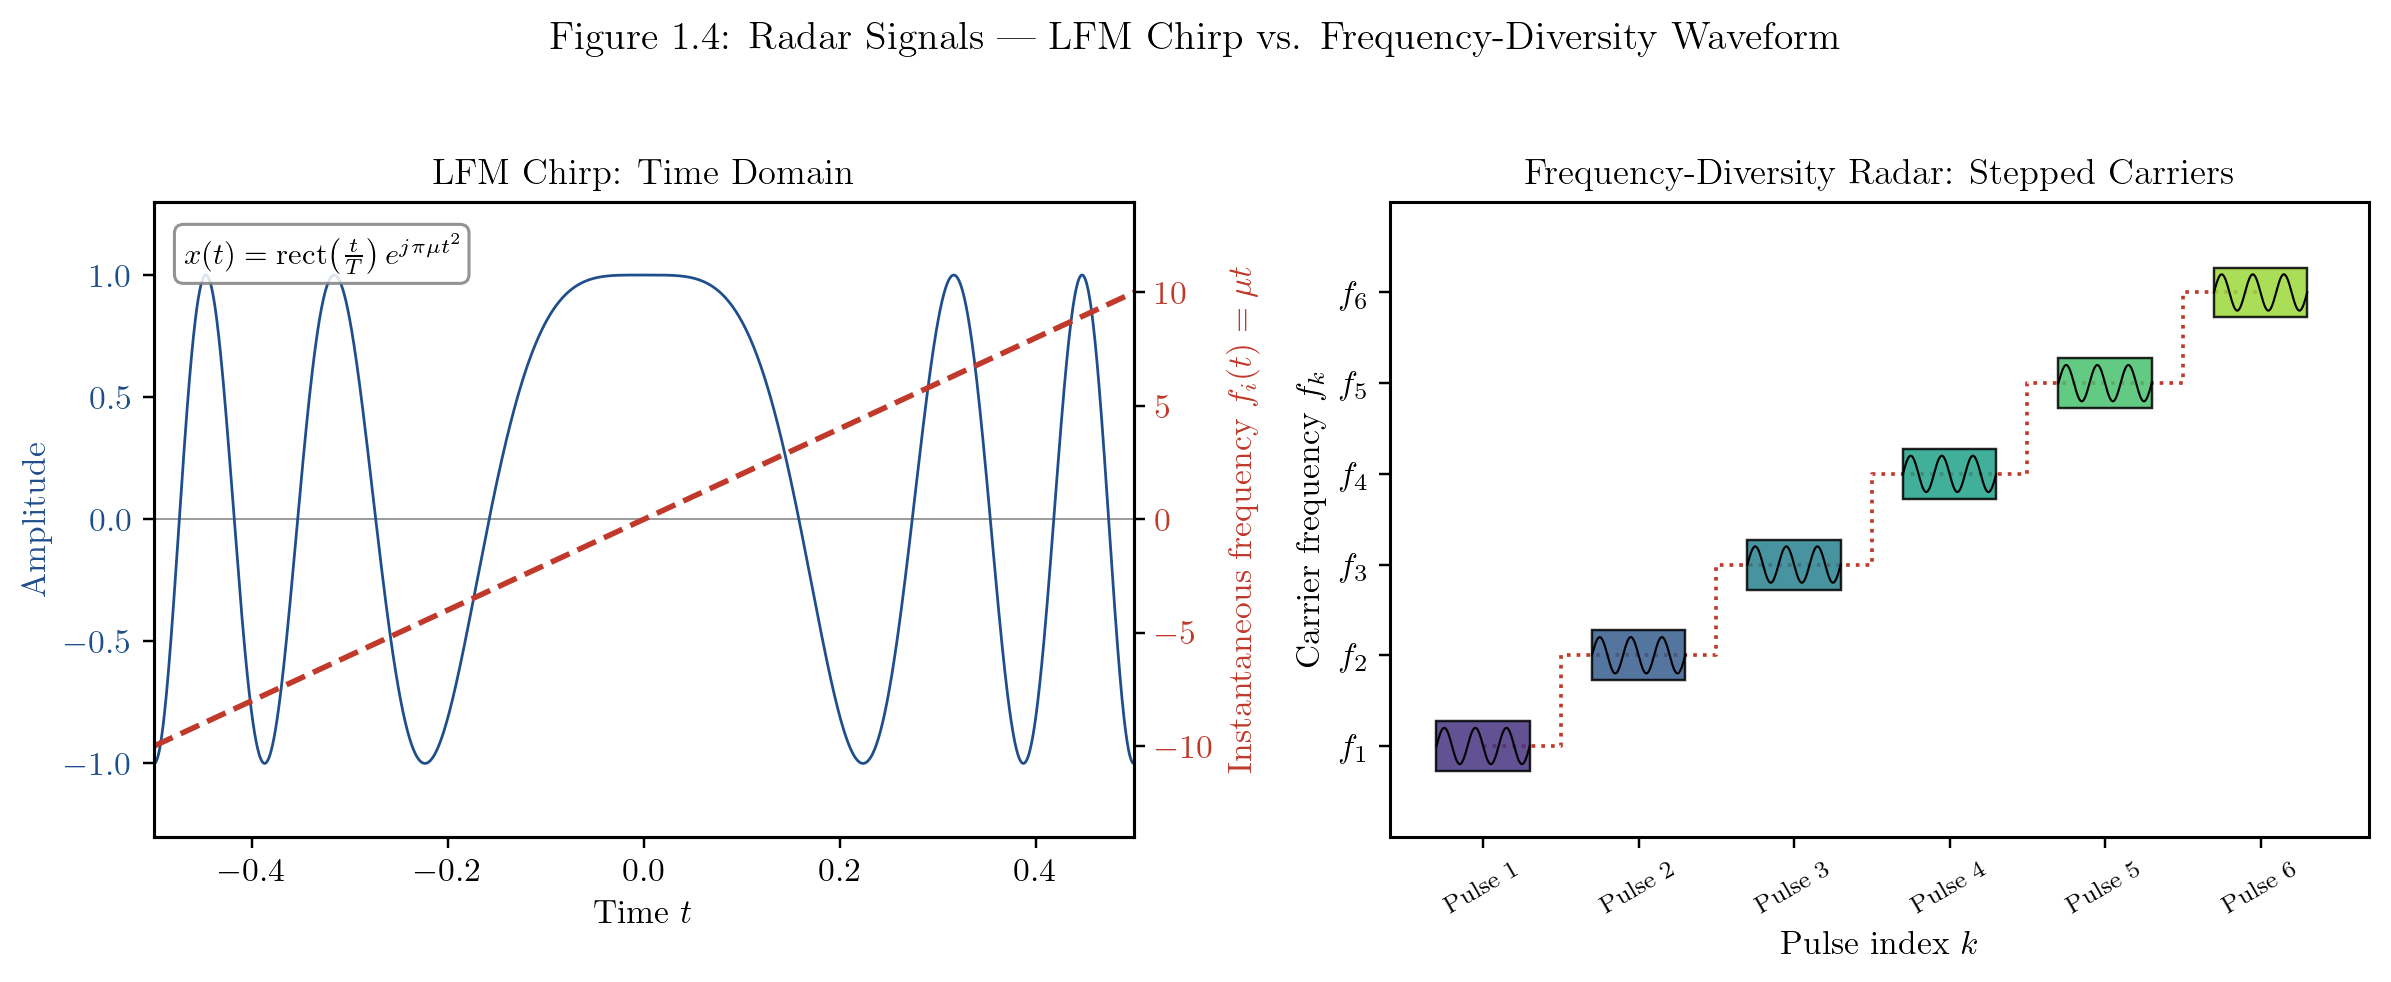
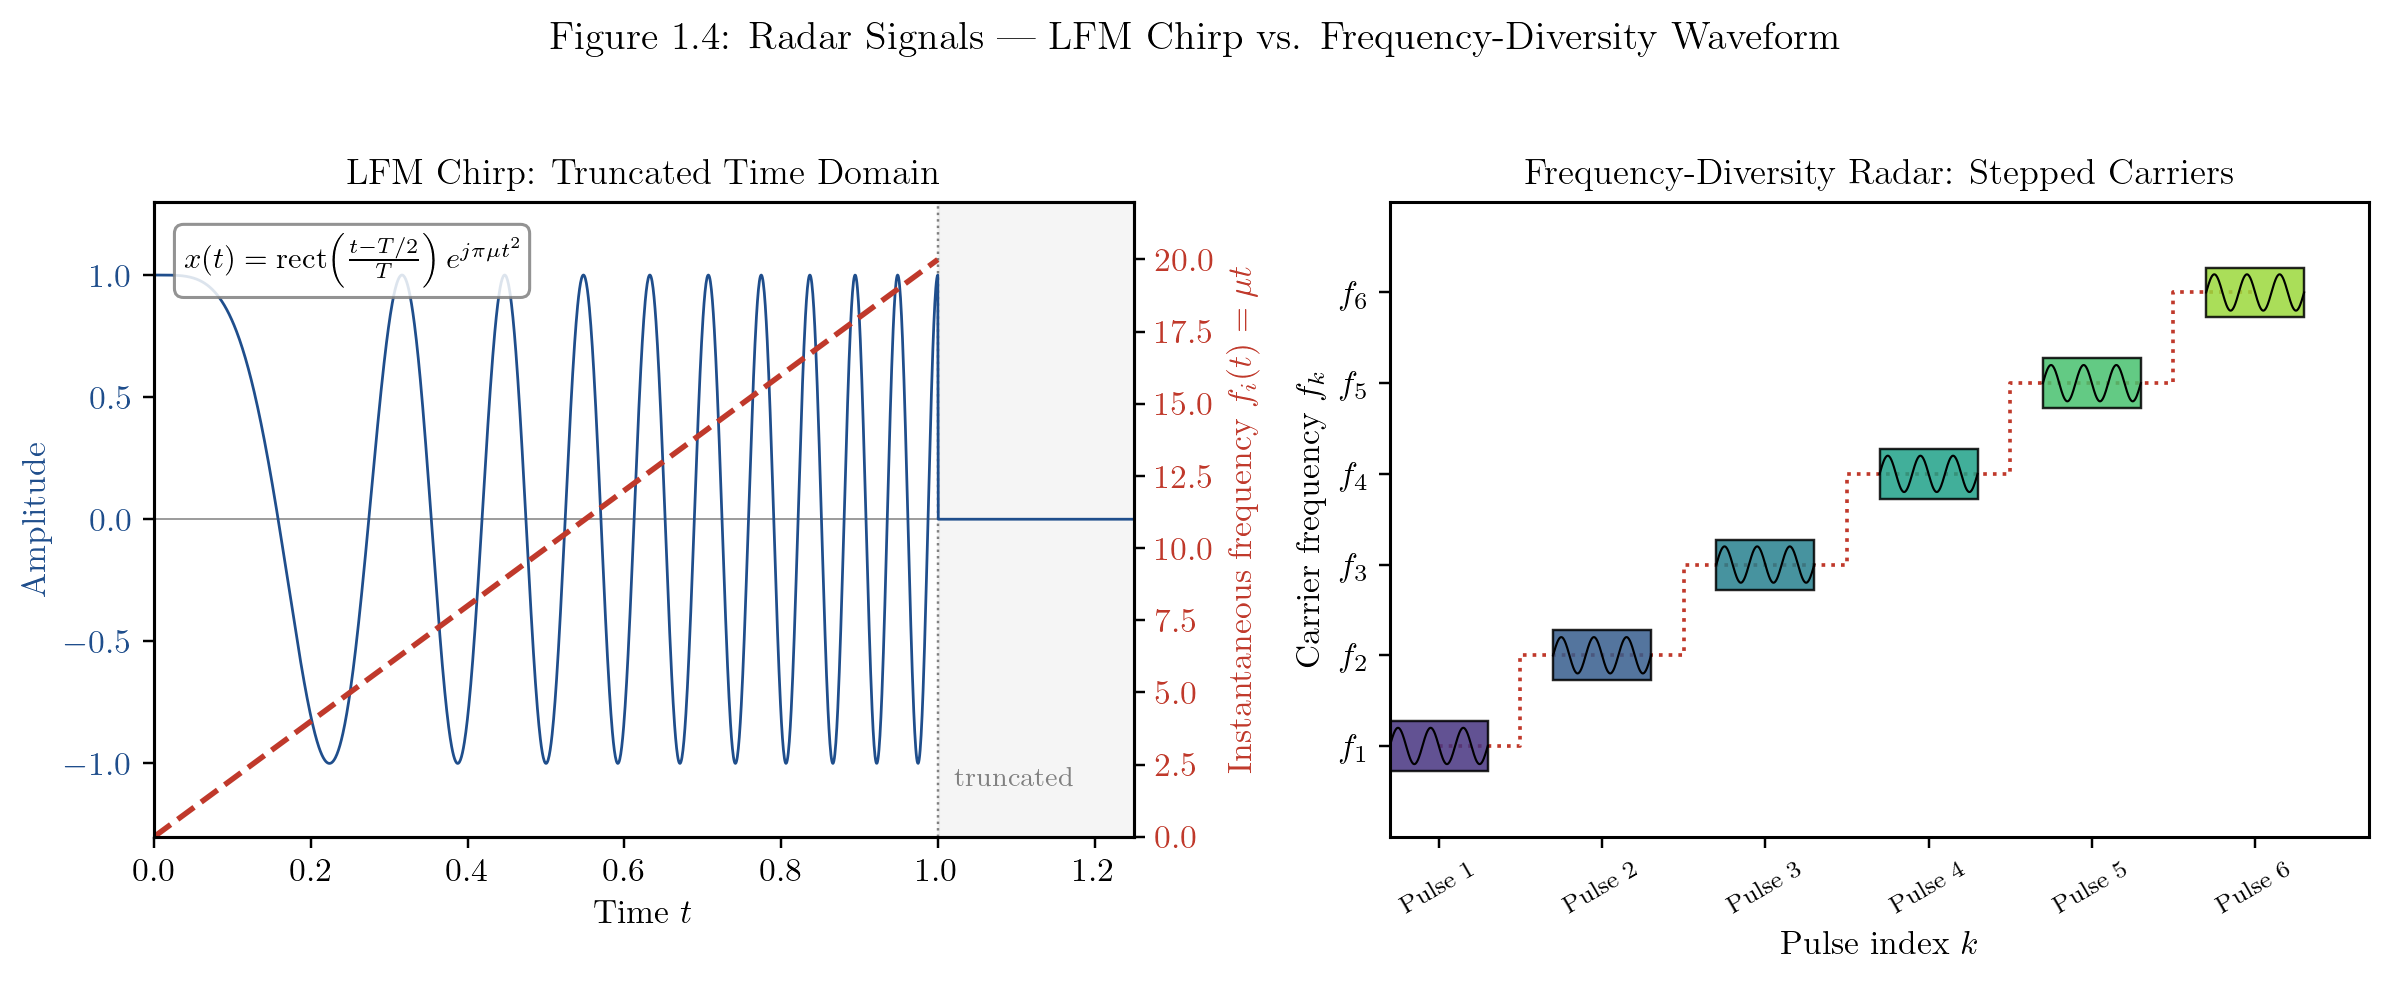
update

diff --git a/CourseADSP2026/Python/fig 1_4.py b/CourseADSP2026/Python/fig 1_4.py
@@ -29,31 +29,41 @@ T = 1.0                 # pulse duration
 B = 20.0                # swept bandwidth (Hz)
 mu = B / T               # chirp rate
 fs = 2000
-t = np.linspace(-T / 2, T / 2, fs)
+t = np.linspace(0, 1.25 * T, fs)
+pulse_mask = t <= T
 
-chirp = np.cos(np.pi * mu * t ** 2)          # real part of the LFM signal
-f_inst = mu * t                              # instantaneous frequency, linear in t
+chirp_untruncated = np.cos(np.pi * mu * t ** 2)
+chirp = np.where(pulse_mask, chirp_untruncated, 0.0)  # rectangularly truncated waveform
+f_inst = np.where(pulse_mask, mu * t, np.nan)         # only defined inside the pulse
 
 ax1.plot(t, chirp, color="#1f4e8c", linewidth=0.9)
 ax1.axhline(0, color="gray", linewidth=0.5, zorder=0)
-ax1.set_xlim(-T / 2, T / 2)
+ax1.axvline(T, color="gray", linewidth=0.8, linestyle=":", zorder=0)
+ax1.axvspan(T, t[-1], color="gray", alpha=0.08, zorder=-1)
+ax1.set_xlim(0, t[-1])
 ax1.set_ylim(-1.3, 1.3)
 ax1.set_xlabel("Time $t$")
 ax1.set_ylabel("Amplitude", color="#1f4e8c")
 ax1.tick_params(axis="y", labelcolor="#1f4e8c")
-ax1.set_title("LFM Chirp: Time Domain", fontsize=12)
+ax1.set_title("LFM Chirp: Truncated Time Domain", fontsize=12)
 
 ax1b = ax1.twinx()
 ax1b.plot(t, f_inst, color="#c0392b", linewidth=1.8, linestyle="--")
 ax1b.set_ylabel(r"Instantaneous frequency $f_i(t)=\mu t$", color="#c0392b")
 ax1b.tick_params(axis="y", labelcolor="#c0392b")
-ax1b.set_ylim(-B * 0.7, B * 0.7)
+ax1b.set_ylim(0, B * 1.1)
 
 ax1.text(
     0.03, 0.95,
-    r"$x(t)=\mathrm{rect}\!\left(\frac{t}{T}\right)e^{j\pi\mu t^2}$",
+    r"$x(t)=\mathrm{rect}\!\left(\frac{t-T/2}{T}\right)e^{j\pi\mu t^2}$",
     transform=ax1.transAxes, fontsize=10, va="top", ha="left",
     bbox=dict(boxstyle="round", fc="white", ec="gray", alpha=0.85),
+)
+
+ax1.text(
+    T + 0.02 * T, -1.12,
+    "truncated",
+    fontsize=9, color="gray", va="bottom", ha="left",
 )
 
 # =====================================================================
@@ -86,7 +96,7 @@ centers = np.array([i * (pulse_width + gap) + pulse_width / 2 for i in range(n_p
 ax2.step(centers, freqs, where="mid", color="#c0392b", linewidth=1.2,
           linestyle=":", zorder=1)
 
-ax2.set_xlim(-0.3, n_pulses * (pulse_width + gap))
+ax2.set_xlim(0, n_pulses * (pulse_width + gap))
 ax2.set_ylim(0, freqs[-1] + 8)
 ax2.set_xlabel("Pulse index $k$")
 ax2.set_ylabel("Carrier frequency $f_k$")